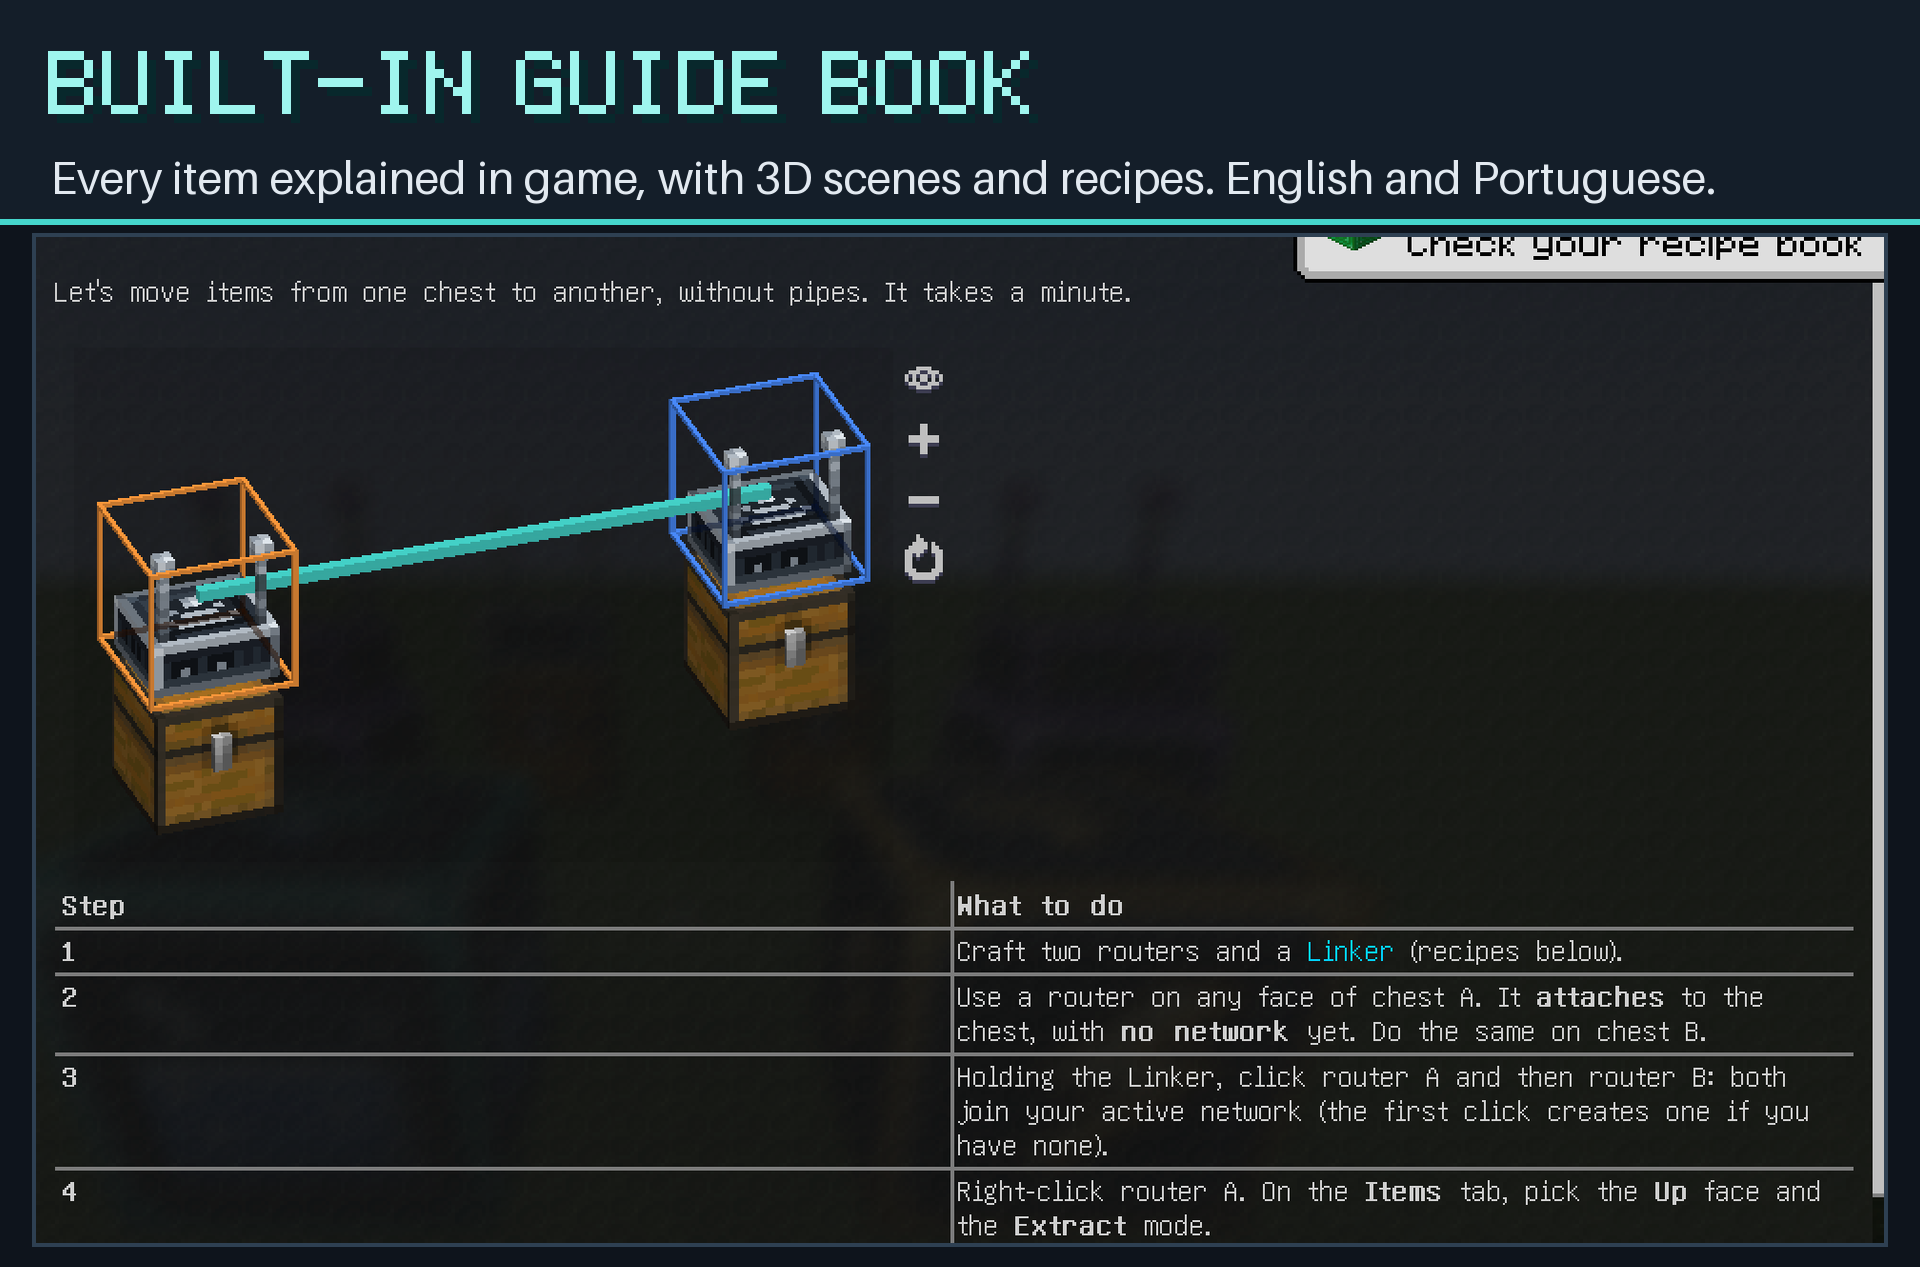
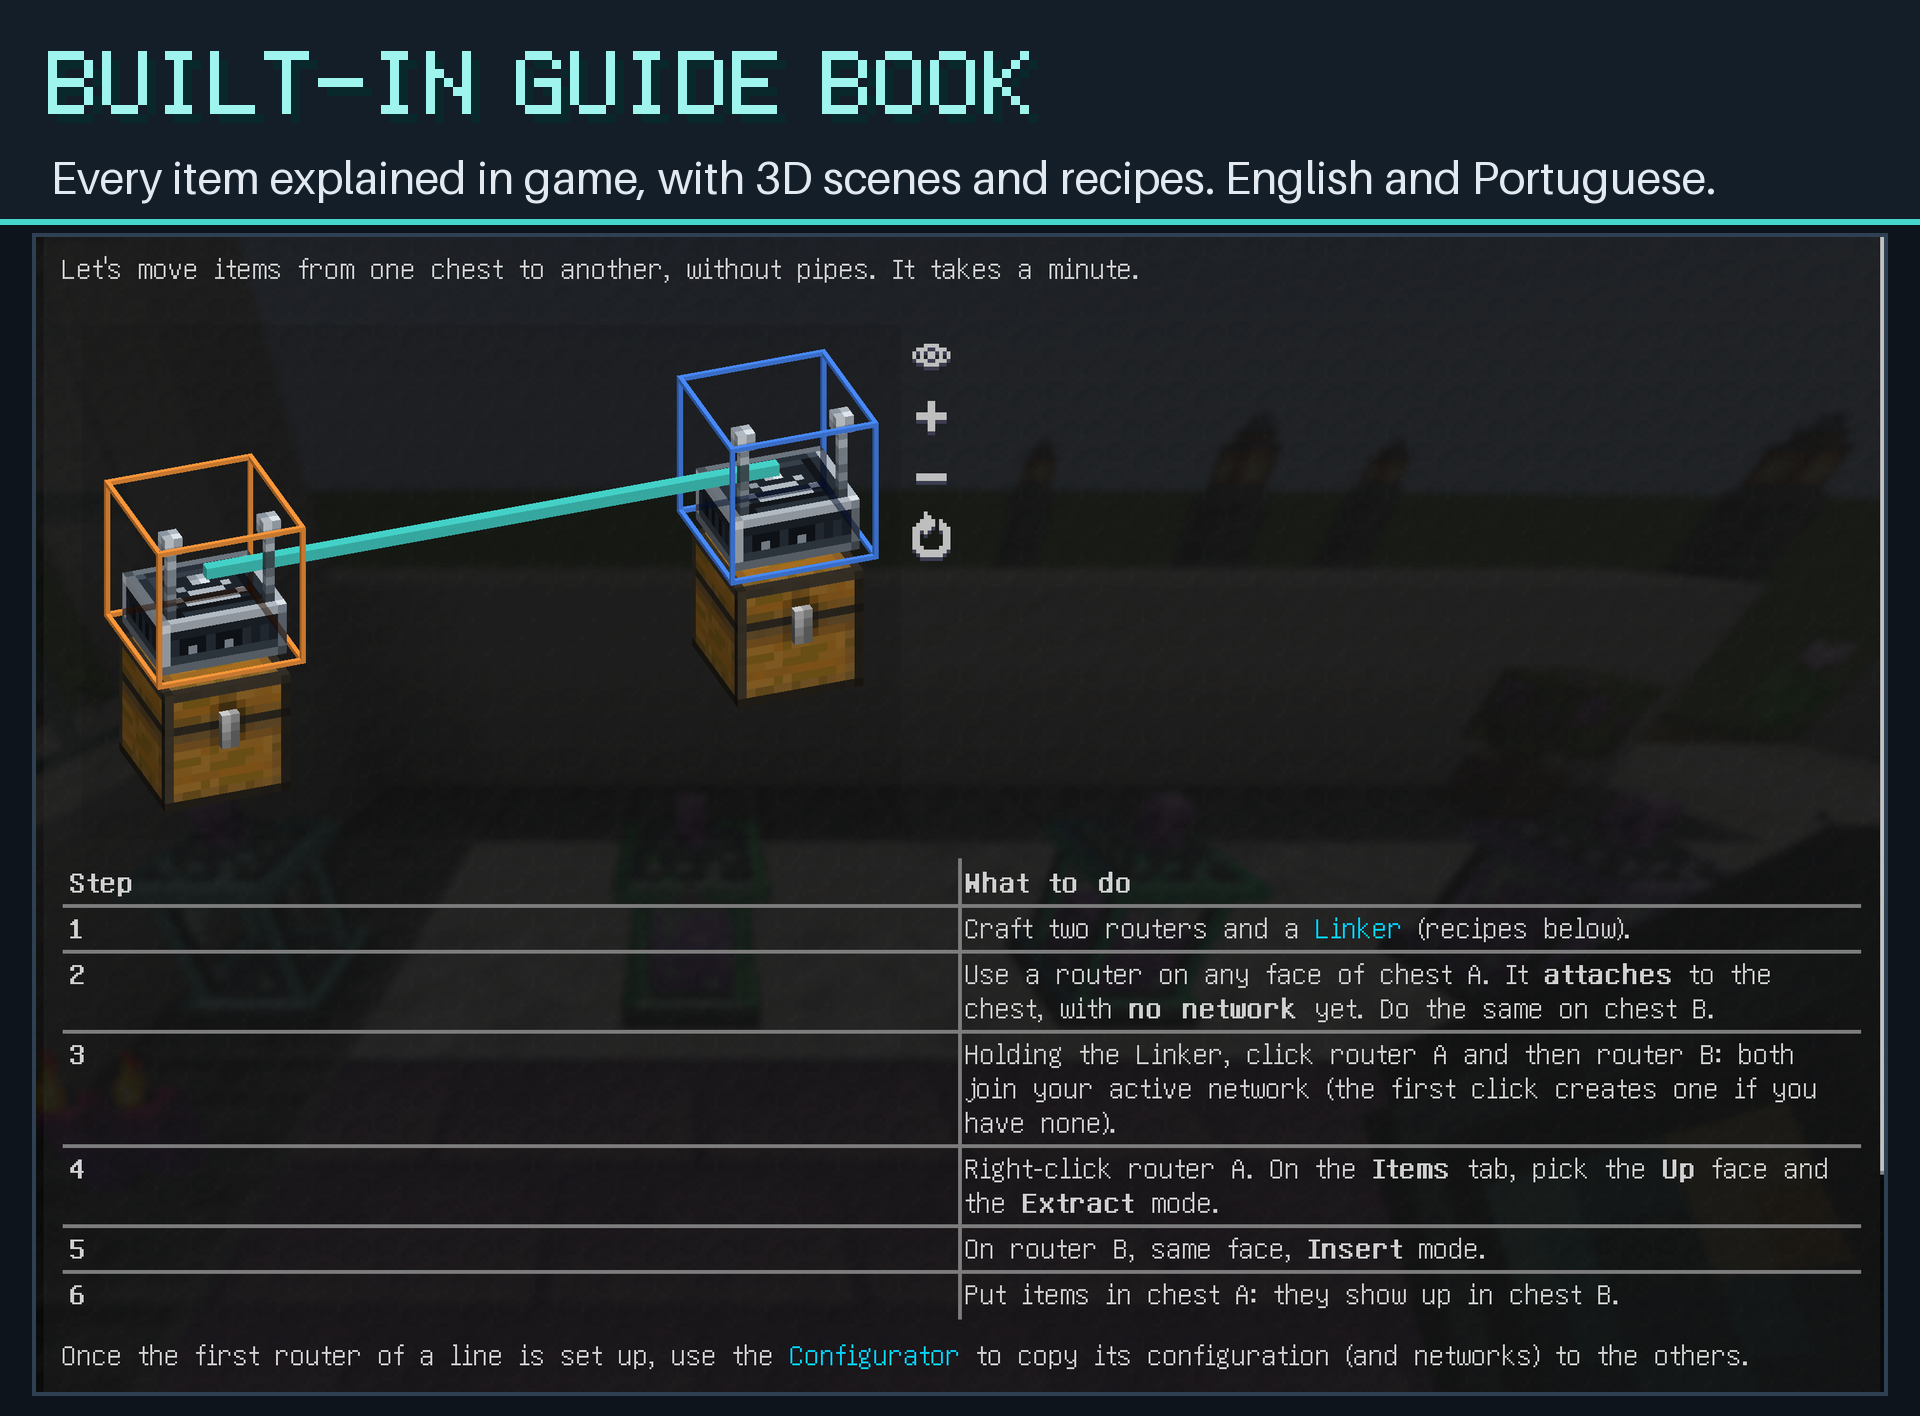
Imagem do guia em alta resolução, pela vitrine
A vitrine abre a página Getting started e espera o GuideME desenhar antes
da captura (antes saía a tela anterior). O gerar_imagens.py usa essa
captura no lugar da do e2e.

Changed region(s): [[0.0, 0.0308, 1.0, 0.985]]

diff --git a/scripts/curseforge/gerar_imagens.py b/scripts/curseforge/gerar_imagens.py
@@ -1,7 +1,6 @@
 """Gera o banner e as imagens da descrição do projeto no CurseForge.
 
     WA_SHOWCASE=run/showcase ./gradlew runClient    # fotos da vitrine (DevEndToEnd, modo WA_SHOWCASE), 3840x2400
-    WA_E2E=run/e2e ./gradlew runClient               # capturas do guia (opcional: guia-*.png)
     python scripts/curseforge/gerar_imagens.py
 
 O CurseForge não fixa tamanho para imagens da descrição; a regra é mostrar o mod como ele é no
@@ -23,7 +22,6 @@ import gerar_capa as capa  # noqa: E402
 
 SAIDA = RAIZ / "docs" / "curseforge"
 VITRINE = RAIZ / "run" / "showcase"
-E2E = RAIZ / "run" / "e2e"
 
 FUNDO = (14, 20, 28)
 FAIXA = (20, 30, 41)
@@ -301,7 +299,7 @@ DESTAQUES = [
      VITRINE / "s6b-tablet-estatisticas.png", (60, 80, 1222, 720)),
     ("feature-7-guide", "Built-in guide book",
      "Every item explained in game, with 3D scenes and recipes. English and Portuguese.",
-     E2E / "guia-getting-started.png", (300, 40, 1270, 568)),
+     VITRINE / "s8-guia.png", (296, 52, 1266, 658)),
 ]
 
 

diff --git a/src/main/java/io/github/matheusanbs/wirelessautomate/client/DevEndToEnd.java b/src/main/java/io/github/matheusanbs/wirelessautomate/client/DevEndToEnd.java
@@ -1332,10 +1332,12 @@ public final class DevEndToEnd {
         list.add(close("fechar o Tablet"));
         if (ModList.get().isLoaded("guideme")) {
             list.add(new Step("guia", STEP_TIMEOUT_MS,
-                    () -> ClientCommandHandler.runCommand("guidemec wirelessautomate:guide open wirelessautomate:router.md"),
+                    () -> ClientCommandHandler.runCommand("guidemec wirelessautomate:guide open wirelessautomate:getting-started.md"),
                     () -> Minecraft.getInstance().screen != null
                             && Minecraft.getInstance().screen.getClass().getName().startsWith("guideme"),
                     () -> "tela " + describe(Minecraft.getInstance().screen)));
+            // o GuideME monta a página e a cena 3D nos primeiros quadros: sem a espera, a captura pega a tela anterior
+            list.add(wait("guia desenhado", 40));
             list.add(capture("s8-guia"));
         }
         return list;

diff --git a/docs/progresso.md b/docs/progresso.md
@@ -97,7 +97,7 @@ Respondidas e registradas também na especificação ("Decisões tomadas"):
 
 | Data | O que foi feito |
 | --- | --- |
-| 2026-10-08 | Imagens do CurseForge em alta resolução: a vitrine renderiza fora da tela em 3840x2400 com a interface na escala 6 (o layout da escala 2 em 1280x800; `WA_SHOWCASE_SCALE` muda o fator) e o `gerar_imagens.py` sai em 1920 px, com recortes em coordenadas de 1280x800 e sem ampliar por fator quebrado. Recortes das telas refeitos para as telas maiores. |
+| 2026-10-08 | Imagens do CurseForge em alta resolução: a vitrine renderiza fora da tela em 3840x2400 com a interface na escala 6 (o layout da escala 2 em 1280x800; `WA_SHOWCASE_SCALE` muda o fator) e o `gerar_imagens.py` sai em 1920 px, com recortes em coordenadas de 1280x800 e sem ampliar por fator quebrado. Recortes das telas refeitos para as telas maiores. A imagem do guia também sai da vitrine (página Getting started, depois de o GuideME desenhar). |
 | 2026-10-08 | Fechamento da 1.2.0: `mod_version`, changelog separado e unificado (`changelog-curseforge-1.2.0.md`), descrição do CurseForge e README com a escada nova e o Allthemodium. |
 | 2026-10-08 | Tier Esmeralda (entre dimensões) e, com o Allthemodium, os tiers Allthemodium, Vibranium e Unobtainium, em roteadores, armazenamentos e cartões. Rebalanceamento ×8 com nerf nos tiers vanilla (Básico 32 itens/s). Receitas condicionais pelas tags `c:` do ATM e Ultimate com fragmento de ATM Star no ATM10. Texturas, modelos e blockstates por tier gerados pelo script; guia com tabelas geradas. Run nova `gameTestServerAllthemodium`. Migração da config antiga (`migration.balanceVersion`), e2e e benchmark ajustados à escada nova; tela da Bateria e do Tanque de Source com 240 px (o nome não cortava com a pílula "Esmeralda"); duas corridas do roteiro do e2e corrigidas (caixa de tags ainda invisível, botão Todos antes do estado novo chegar à tela). 134 JUnit, 159 + 7 + 15 + 2 GameTests, e2e OK (522 passos, com o Allthemodium no cliente). |
 | 2026-10-08 | Imagens novas do CurseForge: a vitrine (`WA_SHOWCASE`) agora monta uma casa de quartzo sem teto com a linha de fornalhas, a galeria dos cinco armazenamentos (fluxo de verdade para um cofre sob o piso), a vitrine dos itens em pedestais e o laboratório do Ars com os quatro tiers do Tanque de Source. `gerar_imagens.py` com a imagem geral (`feature-0`), Source (11 e 12), Vinculador por tipo (13), kit de ferramentas (14), detalhe em canto e a linha Source/s nos tiers. `descricao.md` com marcadores `ENVIAR:<arquivo>` até o upload no CurseForge. |
